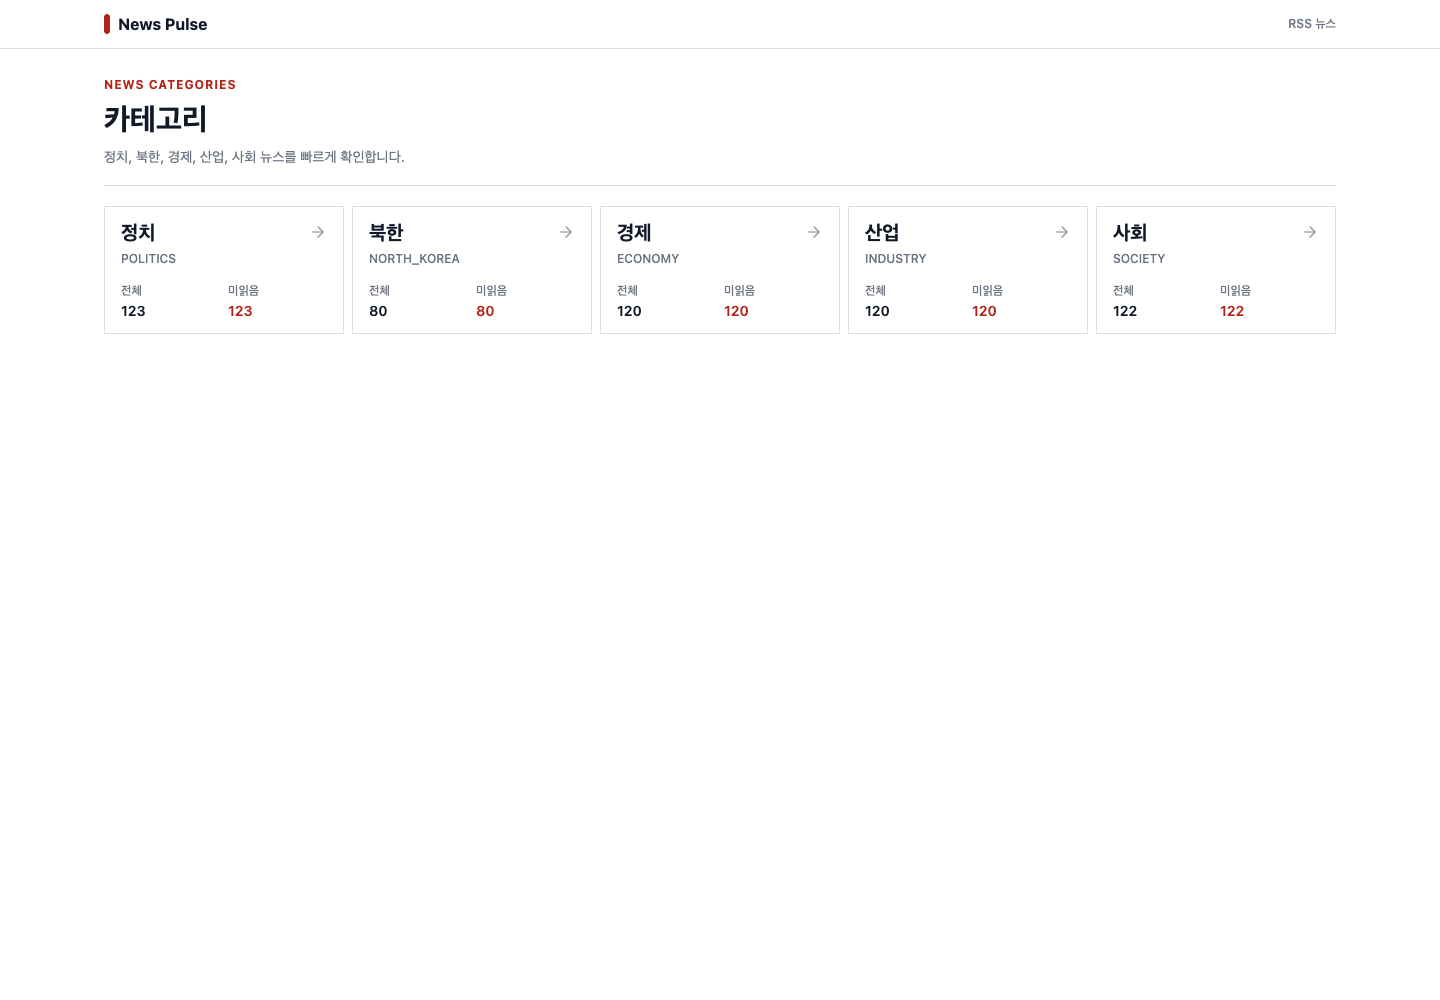
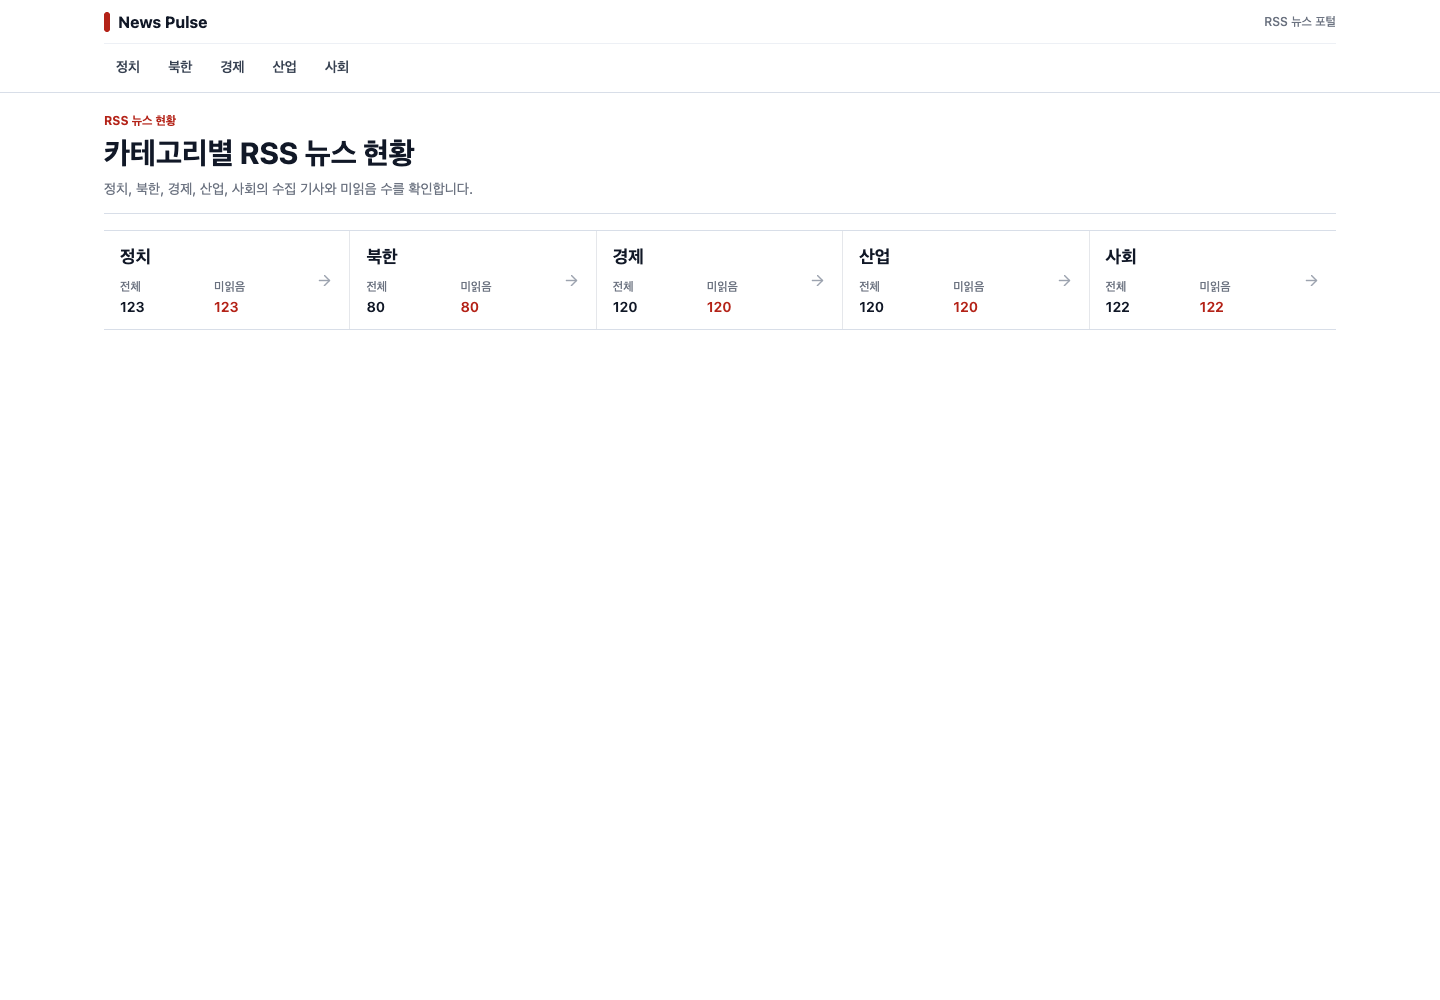
style: 뉴스 포털형 정보 구조 정리

diff --git a/new-pulse-frontend/src/pages/ArticleDetailPage.tsx b/new-pulse-frontend/src/pages/ArticleDetailPage.tsx
@@ -1,4 +1,4 @@
-import { ArrowLeft, ExternalLink, UserRound } from "lucide-react";
+import { ArrowLeft, ExternalLink } from "lucide-react";
 import { useEffect, useRef, useState } from "react";
 import { Link, useLocation, useParams } from "react-router-dom";
 import { ErrorState } from "../components/ErrorState";
@@ -7,6 +7,7 @@ import { StatusBadge } from "../components/StatusBadge";
 import { useArticleDetailQuery, useMarkArticleReadMutation } from "../hooks/useArticles";
 import { useClientId } from "../hooks/useClientId";
 import type { CategoryCode } from "../types/api";
+import { getCategoryLabel } from "../utils/category";
 import { formatPublishedAt } from "../utils/date";
 
 interface DetailLocationState {
@@ -39,7 +40,7 @@ export function ArticleDetailPage() {
   const backCategory = fromCategory ?? articleQuery.data?.categories[0];
 
   return (
-    <section className="space-y-5">
+    <section className="space-y-4">
       <div className="flex flex-wrap items-center justify-between gap-3">
         <Link
           to={backCategory ? `/categories/${backCategory}` : "/"}
@@ -60,7 +61,7 @@ export function ArticleDetailPage() {
       ) : null}
 
       {articleQuery.isSuccess ? (
-        <article className="border-y border-[#d8dee8] bg-white py-5 sm:py-7">
+        <article className="border-y border-[#d8dee8] bg-white py-5 sm:py-6">
           <div className="flex flex-wrap items-center gap-2">
             <StatusBadge variant={markedRead || readMutation.isSuccess || articleQuery.data.read ? "read" : "unread"} />
             {articleQuery.data.categories.map((category) => (
@@ -68,23 +69,33 @@ export function ArticleDetailPage() {
                 key={category}
                 className="inline-flex h-6 items-center border border-[#c7cdd6] bg-[#f9fafb] px-2 text-xs font-semibold text-[#4b5563]"
               >
-                {category}
+                {getCategoryLabel(category)}
               </span>
             ))}
           </div>
 
-          <h1 className="mt-5 max-w-5xl break-keep text-2xl font-bold leading-9 tracking-normal text-[#111827] sm:text-4xl sm:leading-[1.25]">
+          <h1 className="mt-4 max-w-5xl break-keep text-2xl font-bold leading-9 tracking-normal text-[#111827] sm:text-4xl sm:leading-[1.25]">
             {articleQuery.data.title}
           </h1>
 
-          <div className="mt-5 flex flex-wrap gap-x-5 gap-y-2 border-b border-[#e5e7eb] pb-5 text-sm text-[#6b7280]">
-            <span className="inline-flex items-center gap-1.5">
-              <UserRound aria-hidden="true" size={16} />
-              {articleQuery.data.creator || "작성자 미상"}
-            </span>
-            <time dateTime={articleQuery.data.publishedAt}>{formatPublishedAt(articleQuery.data.publishedAt)}</time>
-            <span>{articleQuery.data.articleId}</span>
-          </div>
+          <dl className="mt-5 grid gap-2 border-y border-[#e5e7eb] py-3 text-sm text-[#6b7280] sm:grid-cols-[auto_auto_1fr] sm:gap-x-5">
+            <div className="flex min-w-0 gap-2">
+              <dt className="shrink-0 font-semibold text-[#374151]">기자</dt>
+              <dd className="min-w-0 break-keep">{articleQuery.data.creator || "작성자 미상"}</dd>
+            </div>
+            <div className="flex min-w-0 gap-2">
+              <dt className="shrink-0 font-semibold text-[#374151]">송고</dt>
+              <dd>
+                <time dateTime={articleQuery.data.publishedAt}>
+                  {formatPublishedAt(articleQuery.data.publishedAt)}
+                </time>
+              </dd>
+            </div>
+            <div className="flex min-w-0 gap-2">
+              <dt className="shrink-0 font-semibold text-[#374151]">기사ID</dt>
+              <dd className="min-w-0 break-all text-[#6b7280]">{articleQuery.data.articleId}</dd>
+            </div>
+          </dl>
 
           <div className="mt-6">
             <a

diff --git a/new-pulse-frontend/e2e/news-flow.spec.ts b/new-pulse-frontend/e2e/news-flow.spec.ts
@@ -33,7 +33,7 @@ test("카테고리에서 상세로 이동하고 읽음 상태를 반영한다", 
   await mkdir(screenshotDir, { recursive: true });
 
   await page.goto("/");
-  await expect(page.getByRole("heading", { name: "카테고리" })).toBeVisible();
+  await expect(page.getByRole("heading", { name: "카테고리별 RSS 뉴스 현황" })).toBeVisible();
 
   for (const categoryName of ["정치", "북한", "경제", "산업", "사회"]) {
     await expect(page.getByRole("link", { name: `${categoryName} 기사 목록 보기` })).toBeVisible();
@@ -46,7 +46,7 @@ test("카테고리에서 상세로 이동하고 읽음 상태를 반영한다", 
 
   await page.getByRole("link", { name: "정치 기사 목록 보기" }).click();
   await expect(page).toHaveURL(/\/categories\/POLITICS$/);
-  await expect(page.getByRole("heading", { name: "정치", exact: true })).toBeVisible();
+  await expect(page.getByRole("heading", { name: "정치 최신뉴스", exact: true })).toBeVisible();
 
   const firstArticle = page.locator("li a").first();
   await expect(firstArticle).toBeVisible();
@@ -87,7 +87,8 @@ test("모바일 폭에서 주요 화면이 가로 넘침 없이 표시된다", a
   await mkdir(screenshotDir, { recursive: true });
 
   await page.goto("/");
-  await expect(page.getByRole("heading", { name: "카테고리" })).toBeVisible();
+  await expect(page.getByRole("heading", { name: "카테고리별 RSS 뉴스 현황" })).toBeVisible();
+  await expect(page.getByRole("link", { name: "정치 기사 목록 보기" })).toBeVisible();
   await expectNoHorizontalOverflow(page);
   await page.screenshot({
     path: path.join(screenshotDir, "mobile-category-overview.png"),
@@ -95,15 +96,19 @@ test("모바일 폭에서 주요 화면이 가로 넘침 없이 표시된다", a
   });
 
   await page.getByRole("link", { name: "정치 기사 목록 보기" }).click();
-  await expect(page.getByRole("heading", { name: "정치", exact: true })).toBeVisible();
+  await expect(page.getByRole("heading", { name: "정치 최신뉴스", exact: true })).toBeVisible();
+  const mobileFirstArticle = page.locator("li a").first();
+  await expect(mobileFirstArticle).toBeVisible();
+  await expect(mobileFirstArticle.getByText("미읽음", { exact: true })).toBeVisible();
   await expectNoHorizontalOverflow(page);
   await page.screenshot({
     path: path.join(screenshotDir, "mobile-article-list.png"),
     fullPage: true
   });
 
-  await page.locator("li a").first().click();
+  await mobileFirstArticle.click();
   await expect(page.getByRole("link", { name: "연합뉴스 원문 보기" })).toBeVisible();
+  await expect(page.getByText("읽음", { exact: true })).toBeVisible();
   await expectNoHorizontalOverflow(page);
   await page.screenshot({
     path: path.join(screenshotDir, "mobile-article-detail.png"),

diff --git a/new-pulse-frontend/src/components/ArticleListItem.tsx b/new-pulse-frontend/src/components/ArticleListItem.tsx
@@ -1,4 +1,3 @@
-import { ChevronRight, Clock3, UserRound } from "lucide-react";
 import { Link } from "react-router-dom";
 import type { ArticleSummary, CategoryCode } from "../types/api";
 import { formatPublishedAt } from "../utils/date";
@@ -15,36 +14,30 @@ export function ArticleListItem({ article, categoryCode }: ArticleListItemProps)
       <Link
         to={`/articles/${article.articleId}`}
         state={{ fromCategory: categoryCode }}
-        className={`grid gap-3 px-2 py-4 transition hover:bg-[#f8fafc] sm:grid-cols-[1fr_auto] sm:items-center sm:px-3 ${
+        className={`block px-3 py-3 transition hover:bg-[#f8fafc] sm:px-4 ${
           article.read
-            ? "bg-[#fafafa] text-[#6b7280]"
+            ? "bg-[#fbfbfb] text-[#6b7280]"
             : "border-l-2 border-l-[#b42318] bg-white text-[#111827]"
         }`}
       >
         <div className="min-w-0">
-          <div className="mb-1.5 flex flex-wrap items-center gap-2">
+          <div className="mb-1.5 flex flex-wrap items-center gap-x-2 gap-y-1">
             <StatusBadge variant={article.read ? "read" : "unread"} />
-            <span className="text-xs font-medium text-[#6b7280]">{article.articleId}</span>
+            <span className="text-[11px] font-medium text-[#9ca3af]">기사ID {article.articleId}</span>
           </div>
           <h2
-            className={`break-keep text-base leading-7 tracking-normal sm:text-lg ${
-              article.read ? "font-medium text-[#4b5563]" : "font-bold text-[#111827]"
+            className={`break-keep text-base leading-6 tracking-normal sm:text-[17px] ${
+              article.read ? "font-semibold text-[#4b5563]" : "font-bold text-[#111827]"
             }`}
           >
             {article.title}
           </h2>
-          <div className="mt-2 flex flex-wrap gap-x-4 gap-y-1.5 text-xs text-[#6b7280] sm:text-sm">
-            <span className="inline-flex items-center gap-1.5">
-              <UserRound aria-hidden="true" size={14} />
-              {article.creator || "작성자 미상"}
-            </span>
-            <time className="inline-flex items-center gap-1.5" dateTime={article.publishedAt}>
-              <Clock3 aria-hidden="true" size={14} />
-              {formatPublishedAt(article.publishedAt)}
-            </time>
+          <div className="mt-1.5 flex flex-wrap gap-x-2 gap-y-1 text-xs text-[#6b7280]">
+            <span>{article.creator || "작성자 미상"}</span>
+            <span aria-hidden="true">·</span>
+            <time dateTime={article.publishedAt}>{formatPublishedAt(article.publishedAt)}</time>
           </div>
         </div>
-        <ChevronRight aria-hidden="true" className="hidden text-[#9ca3af] sm:block" size={20} />
       </Link>
     </li>
   );

diff --git a/new-pulse-frontend/src/components/AppShell.tsx b/new-pulse-frontend/src/components/AppShell.tsx
@@ -1,18 +1,41 @@
-import { Link, Outlet } from "react-router-dom";
+import { Link, NavLink, Outlet } from "react-router-dom";
+import { CATEGORY_CODES } from "../types/api";
+import { getCategoryLabel } from "../utils/category";
 
 export function AppShell() {
   return (
     <div className="min-h-screen bg-white text-[#111827]">
       <header className="border-b border-[#d8dee8] bg-white">
-        <div className="mx-auto flex max-w-7xl items-center justify-between gap-4 px-4 py-3 sm:px-6">
-          <Link to="/" className="flex items-center gap-2 tracking-normal text-[#111827]">
-            <span className="h-5 w-1.5 rounded-sm bg-[#b42318]" aria-hidden="true" />
-            <span className="text-base font-bold">News Pulse</span>
-          </Link>
-          <span className="hidden text-xs font-medium text-[#6b7280] sm:inline">RSS 뉴스</span>
+        <div className="mx-auto max-w-7xl px-4 sm:px-6">
+          <div className="flex h-11 items-center justify-between gap-4 border-b border-[#edf0f5]">
+            <Link to="/" className="flex shrink-0 items-center gap-2 tracking-normal text-[#111827]">
+              <span className="h-5 w-1.5 rounded-sm bg-[#b42318]" aria-hidden="true" />
+              <span className="text-base font-bold">News Pulse</span>
+            </Link>
+            <span className="hidden text-xs font-medium text-[#6b7280] sm:inline">RSS 뉴스 포털</span>
+          </div>
+          <nav className="-mx-4 overflow-x-auto px-4 sm:mx-0 sm:px-0" aria-label="뉴스 카테고리">
+            <div className="flex min-w-max items-center gap-1 py-2">
+              {CATEGORY_CODES.map((categoryCode) => (
+                <NavLink
+                  key={categoryCode}
+                  to={`/categories/${categoryCode}`}
+                  className={({ isActive }) =>
+                    `inline-flex h-8 items-center border-b-2 px-3 text-sm font-semibold ${
+                      isActive
+                        ? "border-[#b42318] text-[#b42318]"
+                        : "border-transparent text-[#374151] hover:border-[#c7cdd6] hover:text-[#111827]"
+                    }`
+                  }
+                >
+                  {getCategoryLabel(categoryCode)}
+                </NavLink>
+              ))}
+            </div>
+          </nav>
         </div>
       </header>
-      <main className="mx-auto max-w-7xl px-4 py-5 sm:px-6 lg:py-7">
+      <main className="mx-auto max-w-7xl px-4 py-4 sm:px-6 lg:py-5">
         <Outlet />
       </main>
     </div>

diff --git a/new-pulse-frontend/src/pages/ArticleListPage.tsx b/new-pulse-frontend/src/pages/ArticleListPage.tsx
@@ -6,7 +6,7 @@ import { ErrorState } from "../components/ErrorState";
 import { LoadingBlock } from "../components/LoadingBlock";
 import { useArticlesQuery } from "../hooks/useArticles";
 import { useClientId } from "../hooks/useClientId";
-import { isCategoryCode } from "../utils/category";
+import { getCategoryLabel, isCategoryCode } from "../utils/category";
 
 export function ArticleListPage() {
   const { categoryCode } = useParams();
@@ -22,29 +22,30 @@ export function ArticleListPage() {
   }
 
   const articlesQuery = useArticlesQuery(categoryCode, clientId);
+  const categoryName = articlesQuery.data?.category.name ?? getCategoryLabel(categoryCode);
 
   return (
-    <section className="space-y-5">
-      <div className="flex flex-col gap-4 border-b border-[#d8dee8] pb-4 sm:flex-row sm:items-end sm:justify-between">
+    <section className="space-y-4">
+      <div className="flex flex-col gap-3 border-b border-[#d8dee8] pb-3 sm:flex-row sm:items-end sm:justify-between">
         <div>
           <Link
             to="/"
             className="inline-flex items-center gap-2 text-sm font-semibold text-[#b42318] hover:text-[#8f1d14]"
           >
             <ArrowLeft aria-hidden="true" size={16} />
-            카테고리
+            전체 카테고리
           </Link>
-          <h1 className="mt-3 text-2xl font-bold tracking-normal text-[#111827] sm:text-3xl">
-            {articlesQuery.data?.category.name ?? categoryCode}
+          <h1 className="mt-2 text-2xl font-bold tracking-normal text-[#111827] sm:text-3xl">
+            {categoryName} 최신뉴스
           </h1>
           {articlesQuery.isSuccess ? (
-            <p className="mt-1 text-sm text-[#6b7280]">총 {articlesQuery.data.items.length}개 기사</p>
+            <p className="mt-1 text-sm text-[#6b7280]">총 {articlesQuery.data.items.length}건</p>
           ) : null}
         </div>
         <button
           type="button"
           onClick={() => void articlesQuery.refetch()}
-          className="inline-flex h-9 items-center justify-center gap-2 border border-[#c7cdd6] bg-white px-3 text-sm font-semibold text-[#374151] hover:border-[#b42318] hover:text-[#b42318]"
+          className="inline-flex h-9 items-center justify-center gap-2 border border-[#c7cdd6] bg-white px-3 text-sm font-semibold text-[#374151] hover:border-[#b42318] hover:text-[#b42318] sm:self-auto"
         >
           <RefreshCw aria-hidden="true" size={16} />
           새로고침

diff --git a/new-pulse-frontend/src/components/CategoryCard.tsx b/new-pulse-frontend/src/components/CategoryCard.tsx
@@ -10,30 +10,27 @@ export function CategoryCard({ category }: CategoryCardProps) {
   return (
     <Link
       to={`/categories/${category.code}`}
-      className="group flex min-h-28 flex-col justify-between border border-[#d8dee8] bg-white px-3 py-3 transition hover:border-[#b42318] hover:bg-[#fafafa] sm:px-4"
+      className="group grid min-h-16 grid-cols-[minmax(0,1fr)_auto] items-center gap-3 border-b border-[#e5e7eb] px-3 py-3 transition hover:bg-[#f8fafc] last:border-b-0 sm:min-h-24 sm:border-b-0 sm:border-r sm:px-4 sm:last:border-r-0"
       aria-label={`${category.name} 기사 목록 보기`}
     >
-      <div className="flex items-start justify-between gap-3">
-        <h2 className="text-lg font-bold tracking-normal text-[#111827] sm:text-xl">{category.name}</h2>
-        <ArrowRight
-          aria-hidden="true"
-          className="mt-1 text-[#9ca3af] transition group-hover:translate-x-0.5 group-hover:text-[#b42318]"
-          size={18}
-        />
-      </div>
-      <p className="mt-1 text-xs font-medium text-[#6b7280]">{category.code}</p>
-      <div className="mt-4">
-        <dl className="grid grid-cols-2 gap-2 text-sm">
+      <div className="min-w-0">
+        <h2 className="text-base font-bold tracking-normal text-[#111827] sm:text-lg">{category.name}</h2>
+        <dl className="mt-2 grid max-w-44 grid-cols-2 gap-3 text-xs">
           <div>
-            <dt className="text-xs font-medium text-[#6b7280]">전체</dt>
-            <dd className="mt-0.5 font-semibold text-[#111827]">{category.articleCount}</dd>
+            <dt className="font-medium text-[#6b7280]">전체</dt>
+            <dd className="mt-0.5 text-sm font-semibold text-[#111827]">{category.articleCount}</dd>
           </div>
           <div>
-            <dt className="text-xs font-medium text-[#6b7280]">미읽음</dt>
-            <dd className="mt-0.5 font-semibold text-[#b42318]">{category.unreadCount}</dd>
+            <dt className="font-medium text-[#6b7280]">미읽음</dt>
+            <dd className="mt-0.5 text-sm font-semibold text-[#b42318]">{category.unreadCount}</dd>
           </div>
         </dl>
       </div>
+      <ArrowRight
+        aria-hidden="true"
+        className="text-[#9ca3af] transition group-hover:translate-x-0.5 group-hover:text-[#b42318]"
+        size={17}
+      />
     </Link>
   );
 }

diff --git a/new-pulse-frontend/src/pages/CategoryOverviewPage.tsx b/new-pulse-frontend/src/pages/CategoryOverviewPage.tsx
@@ -10,12 +10,16 @@ export function CategoryOverviewPage() {
   const categoriesQuery = useCategoriesQuery(clientId);
 
   return (
-    <section className="space-y-5">
-      <div className="border-b border-[#d8dee8] pb-4">
-        <p className="text-xs font-bold uppercase tracking-[0.08em] text-[#b42318]">News Categories</p>
+    <section className="space-y-4">
+      <div className="border-b border-[#d8dee8] pb-3">
+        <p className="text-xs font-bold text-[#b42318]">RSS 뉴스 현황</p>
         <div>
-          <h1 className="mt-2 text-2xl font-bold tracking-normal text-[#111827] sm:text-3xl">카테고리</h1>
-          <p className="mt-2 text-sm leading-6 text-[#6b7280]">정치, 북한, 경제, 산업, 사회 뉴스를 빠르게 확인합니다.</p>
+          <h1 className="mt-1.5 text-2xl font-bold tracking-normal text-[#111827] sm:text-3xl">
+            카테고리별 RSS 뉴스 현황
+          </h1>
+          <p className="mt-1.5 text-sm leading-6 text-[#6b7280]">
+            정치, 북한, 경제, 산업, 사회의 수집 기사와 미읽음 수를 확인합니다.
+          </p>
         </div>
       </div>
 
@@ -33,7 +37,7 @@ export function CategoryOverviewPage() {
       ) : null}
 
       {categoriesQuery.isSuccess && categoriesQuery.data.items.length > 0 ? (
-        <div className="grid grid-cols-2 gap-2 sm:grid-cols-5">
+        <div className="grid border-y border-[#d8dee8] bg-white sm:grid-cols-5">
           {categoriesQuery.data.items.map((category) => (
             <CategoryCard key={category.code} category={category} />
           ))}

diff --git a/new-pulse-frontend/src/utils/category.ts b/new-pulse-frontend/src/utils/category.ts
@@ -2,6 +2,18 @@ import { CATEGORY_CODES, type CategoryCode } from "../types/api";
 
 const CATEGORY_CODE_SET = new Set<string>(CATEGORY_CODES);
 
+export const CATEGORY_LABELS: Record<CategoryCode, string> = {
+  POLITICS: "정치",
+  NORTH_KOREA: "북한",
+  ECONOMY: "경제",
+  INDUSTRY: "산업",
+  SOCIETY: "사회"
+};
+
 export function isCategoryCode(value: string | undefined): value is CategoryCode {
   return typeof value === "string" && CATEGORY_CODE_SET.has(value);
+}
+
+export function getCategoryLabel(categoryCode: CategoryCode): string {
+  return CATEGORY_LABELS[categoryCode];
 }

diff --git a/new-pulse-frontend/src/utils/category.test.ts b/new-pulse-frontend/src/utils/category.test.ts
@@ -1,0 +1,15 @@
+import { describe, expect, it } from "vitest";
+import { getCategoryLabel, isCategoryCode } from "./category";
+
+describe("category utils", () => {
+  it("지원하는 카테고리 코드만 허용한다", () => {
+    expect(isCategoryCode("POLITICS")).toBe(true);
+    expect(isCategoryCode("UNKNOWN")).toBe(false);
+    expect(isCategoryCode(undefined)).toBe(false);
+  });
+
+  it("카테고리 코드를 한글 표시명으로 변환한다", () => {
+    expect(getCategoryLabel("NORTH_KOREA")).toBe("북한");
+    expect(getCategoryLabel("ECONOMY")).toBe("경제");
+  });
+});

diff --git a/new-pulse-frontend/src/pages/ArticleListPage.test.tsx b/new-pulse-frontend/src/pages/ArticleListPage.test.tsx
@@ -35,8 +35,8 @@ describe("ArticleListPage", () => {
       path: "/categories/:categoryCode"
     });
 
-    expect(await screen.findByRole("heading", { name: "정치" })).toBeInTheDocument();
-    expect(screen.getByRole("link", { name: /정치 기사/ })).toBeInTheDocument();
+    expect(await screen.findByRole("heading", { name: "정치 최신뉴스" })).toBeInTheDocument();
+    expect(await screen.findByRole("link", { name: /정치 기사/ })).toBeInTheDocument();
   });
 
   it("빈 기사 목록 상태를 표시한다", async () => {
